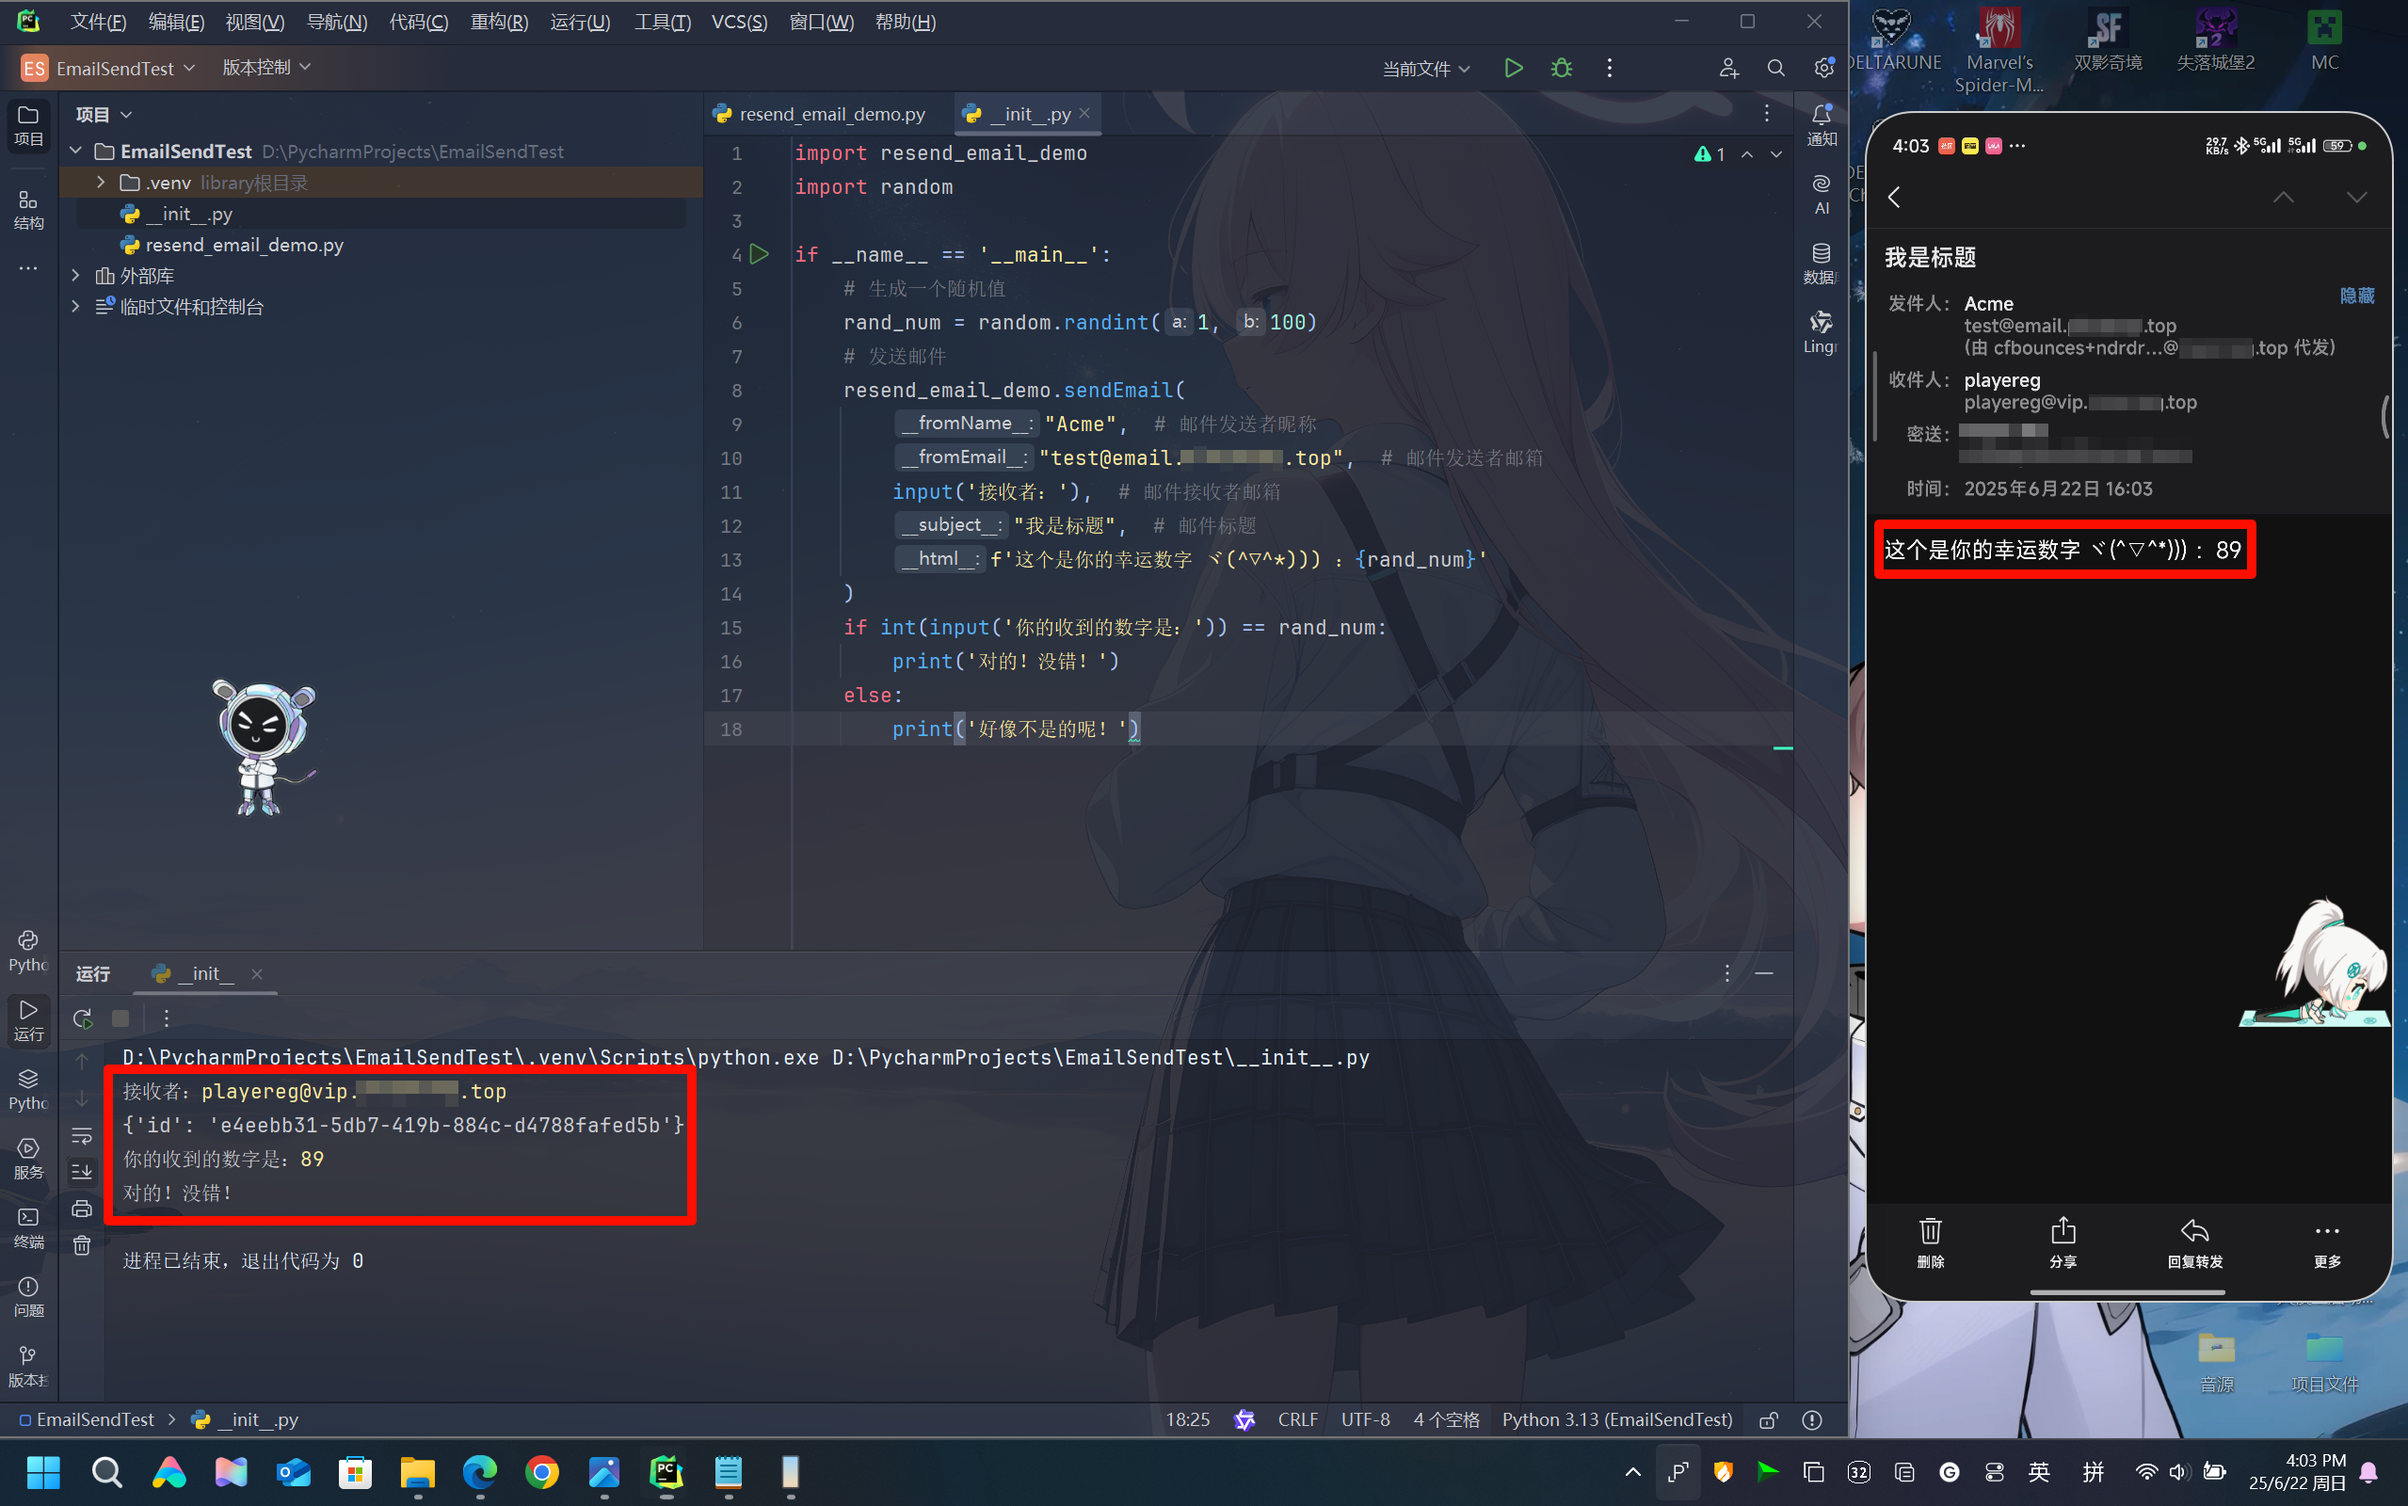
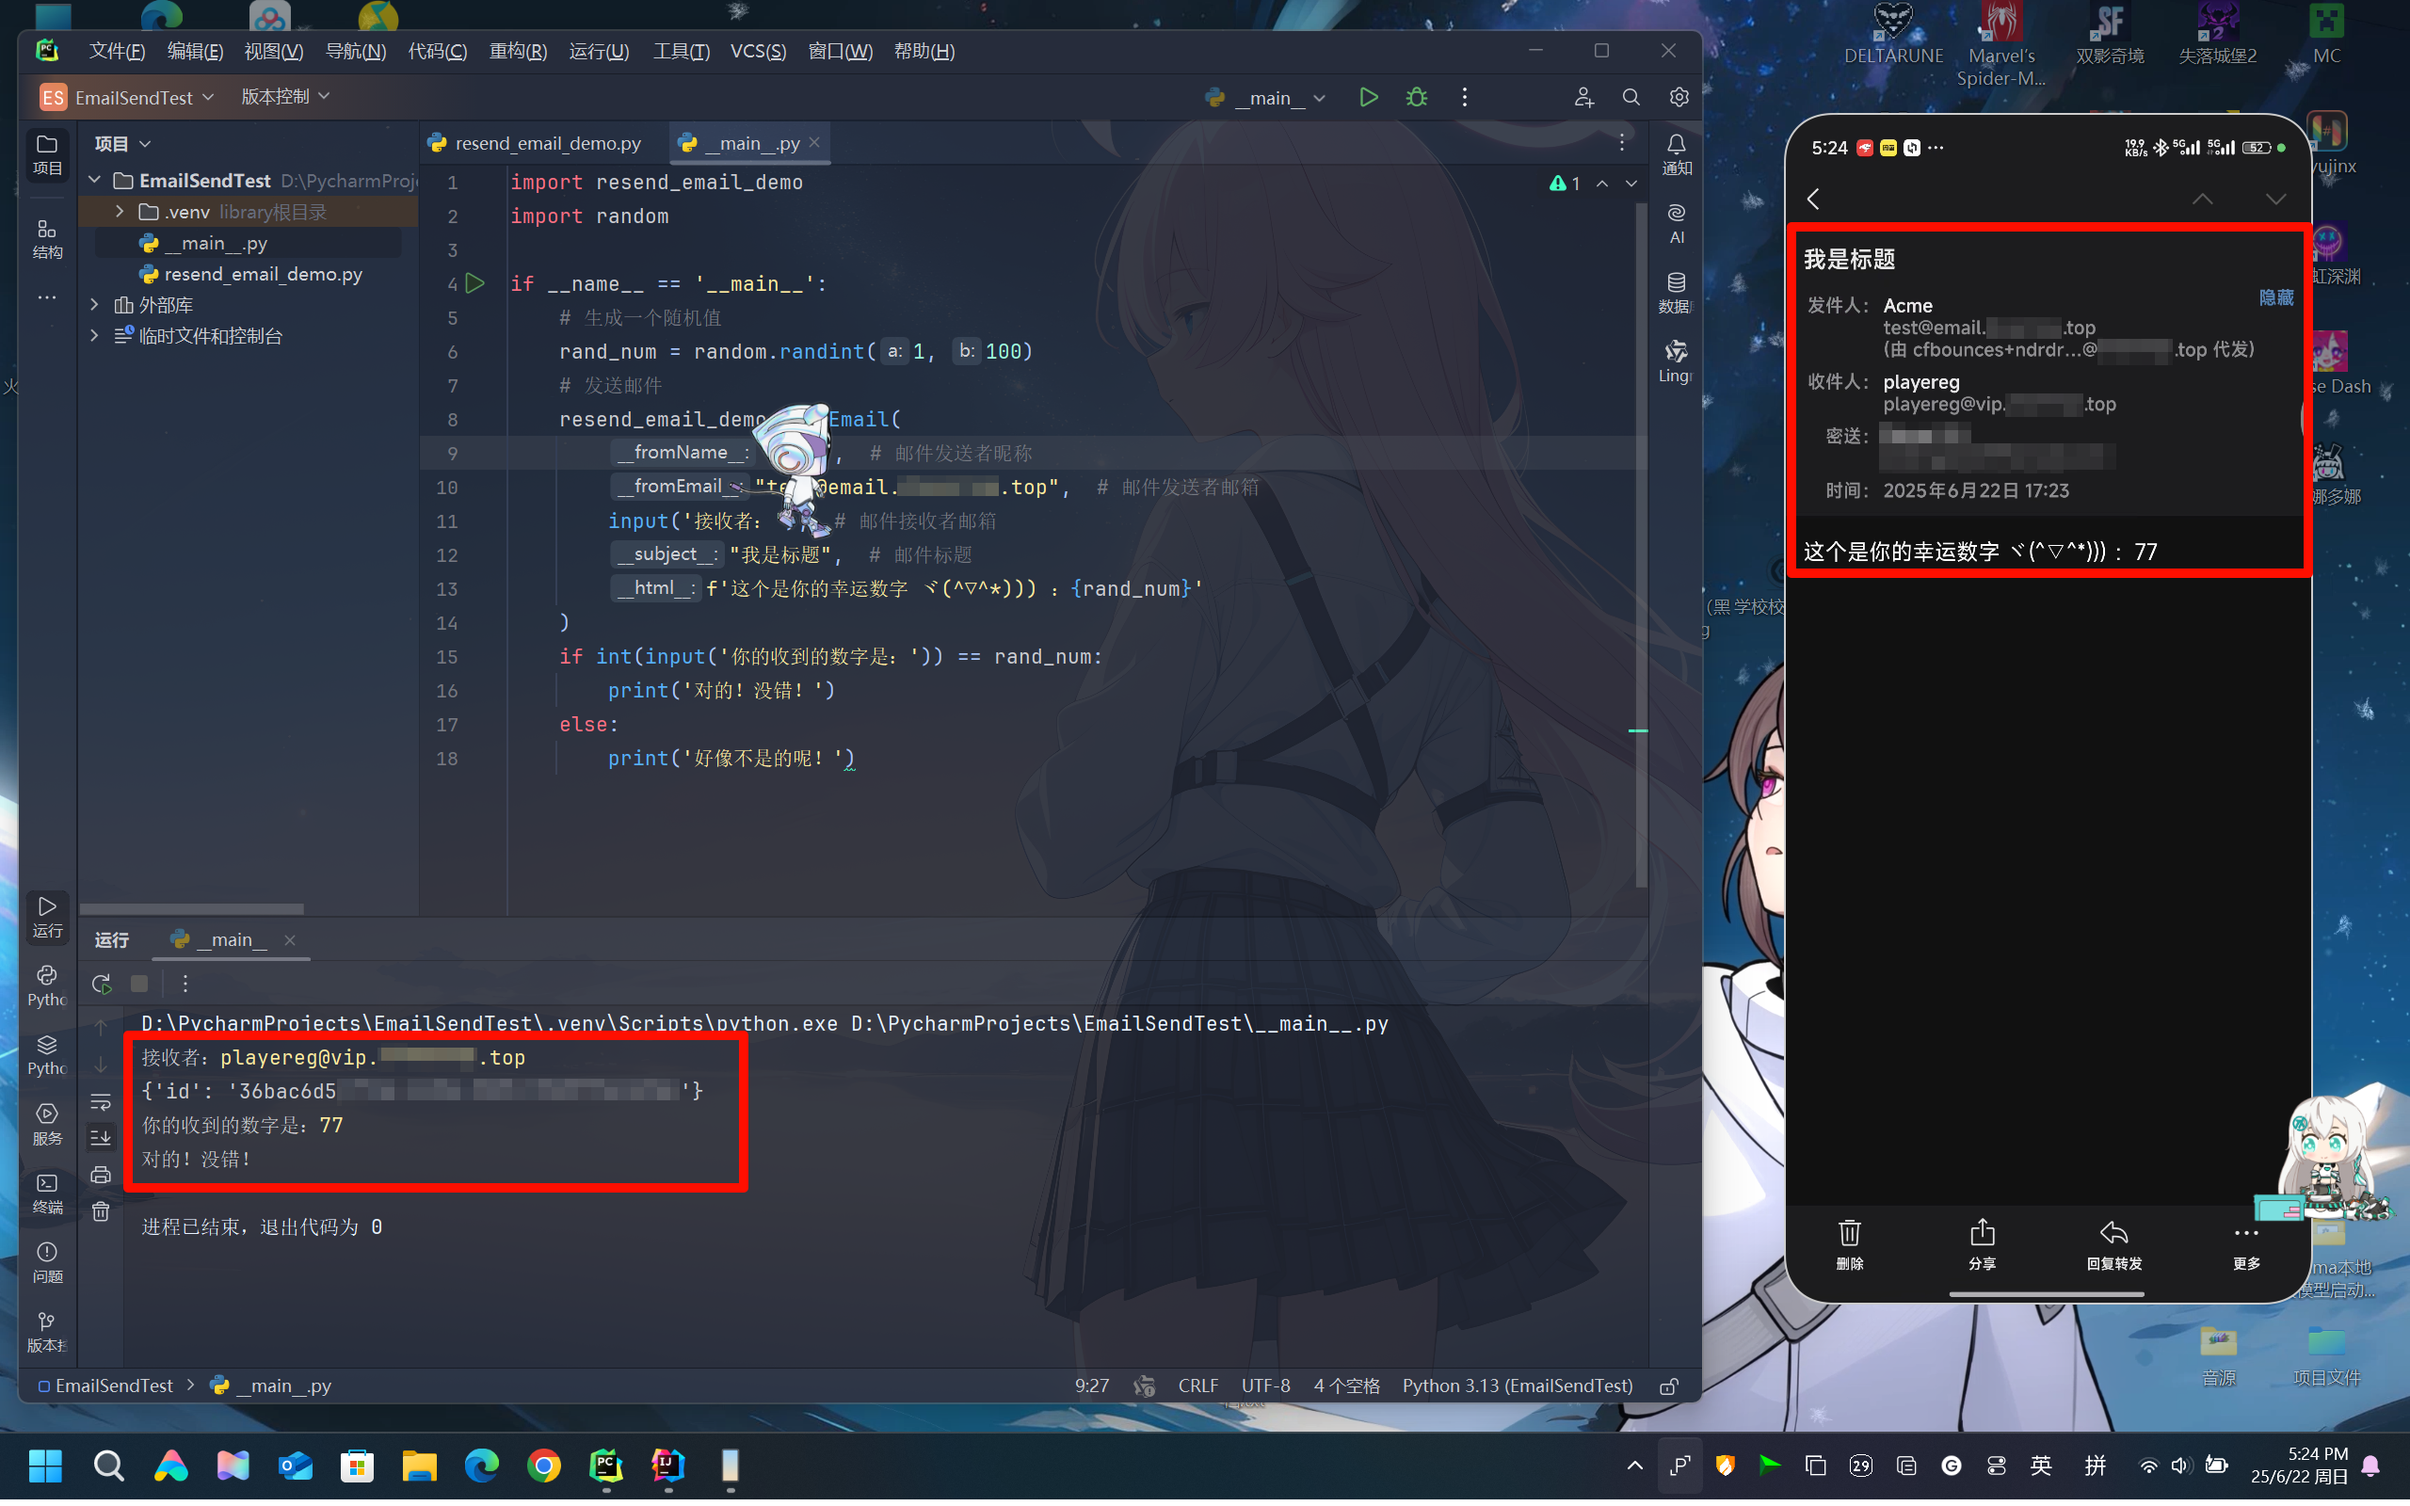
@PlayerEG

diff --git a/MD/001-使用ResendAPI实现基础的邮箱发送.md b/MD/001-使用ResendAPI实现基础的邮箱发送.md
@@ -246,7 +246,7 @@
 
 ![p68](../img/p001/p68.png)
 
-#### 3. 分别创建`__init__.py`和`resend_email_demo.py`文件
+#### 3. 分别创建`__main__.py`和`resend_email_demo.py`文件
 
 ![p69](../img/p001/p69.png)
 ![p70](../img/p001/p70.png)
@@ -290,10 +290,10 @@ def sendEmail(
     print(email) # 打印ID
 ```
 
-#### 5.完善`__init__.py`文件
+#### 5.完善`__main__.py`文件
 
 ```python
-# __init__.py
+# __main__.py
 import resend_email_demo
 import random
 
